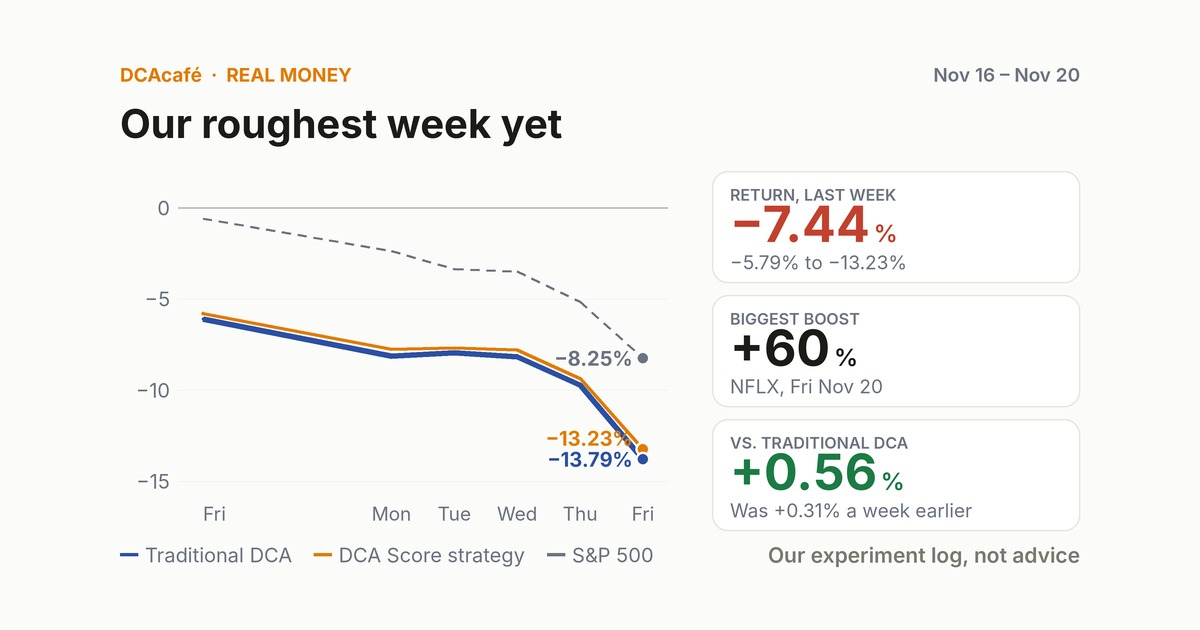
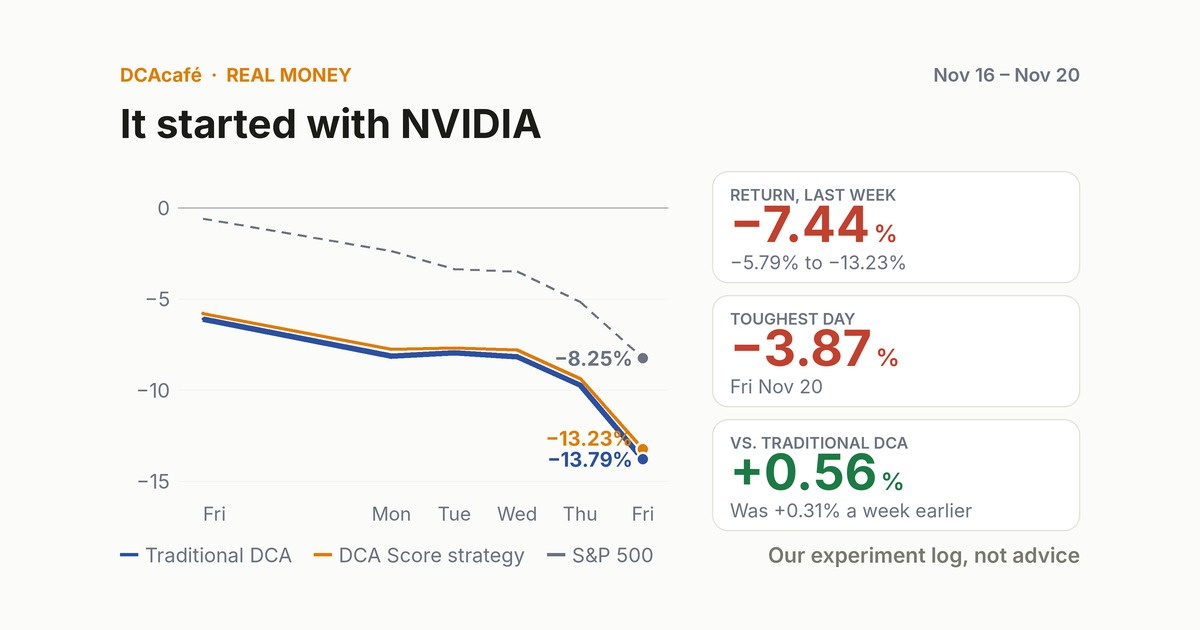
Week 2026-11-23: NVIDIA story version
Claude-Session: https://claude.ai/code/session_01TN5EnEAxzj8h9H6x6S1gNX

Changed region(s): [[0.0925, 0.1508, 0.4625, 0.2413], [0.5858, 0.4825, 0.74, 0.6333]]

diff --git a/week/2026-11-23/index.html b/week/2026-11-23/index.html
@@ -3,21 +3,21 @@
 <head>
 <meta charset="utf-8">
 <meta name="viewport" content="width=device-width,initial-scale=1">
-<title>Our roughest week yet | DCAcafé Real money</title>
-<meta name="description" content="Last week was our roughest yet: real-money DCA return slid from −5.79% to −13.23%, Friday alone −3.87%.  The DCA Score leaned in: every order was boosted, up to +60% on NFLX. One order day slipped. St">
+<title>It started with NVIDIA | DCAcafé Real money</title>
+<meta name="description" content="Last week began with NVIDIA, down 4.12% on Monday. By Friday an AI rout had wiped out Nasdaq's gains.  All three of our assets fell too, and at DCAcafé the DCA Score leaned in on every order.  Did lea">
 <link rel="canonical" href="https://dcacafe.com/week/2026-11-23/">
 <meta property="og:type" content="article">
 <meta property="og:site_name" content="DCAcafé">
-<meta property="og:title" content="Our roughest week yet">
-<meta property="og:description" content="Last week was our roughest yet: real-money DCA return slid from −5.79% to −13.23%, Friday alone −3.87%.  The DCA Score leaned in: every order was boosted, up to +60% on NFLX. One order day slipped. St">
+<meta property="og:title" content="It started with NVIDIA">
+<meta property="og:description" content="Last week began with NVIDIA, down 4.12% on Monday. By Friday an AI rout had wiped out Nasdaq's gains.  All three of our assets fell too, and at DCAcafé the DCA Score leaned in on every order.  Did lea">
 <meta property="og:url" content="https://dcacafe.com/week/2026-11-23/">
 <meta property="og:image" content="https://dcacafe.com/week/2026-11-23/card.jpg">
 <meta property="og:image:width" content="1200">
 <meta property="og:image:height" content="630">
 <meta name="twitter:card" content="summary_large_image">
 <meta name="twitter:site" content="@DCA_cafe">
-<meta name="twitter:title" content="Our roughest week yet">
-<meta name="twitter:description" content="Last week was our roughest yet: real-money DCA return slid from −5.79% to −13.23%, Friday alone −3.87%.  The DCA Score leaned in: every order was boosted, up to +60% on NFLX. One order day slipped. St">
+<meta name="twitter:title" content="It started with NVIDIA">
+<meta name="twitter:description" content="Last week began with NVIDIA, down 4.12% on Monday. By Friday an AI rout had wiped out Nasdaq's gains.  All three of our assets fell too, and at DCAcafé the DCA Score leaned in on every order.  Did lea">
 <meta name="twitter:image" content="https://dcacafe.com/week/2026-11-23/card.jpg">
 <style>
 :root{--ink:#1b1b17;--mid:#6b6b63;--rule:#e4e4dc;--bg:#fbfbf9;--a:#e07b00}
@@ -29,19 +29,22 @@ h1{font-size:28px;line-height:1.2;margin:8px 0 6px;letter-spacing:-.01em}
 img{width:100%;height:auto;border-radius:14px;border:1px solid var(--rule);display:block}
 .post{margin:22px 0;font-size:17px;white-space:pre-line}
 .btn{display:inline-block;background:var(--ink);color:#fff;text-decoration:none;padding:12px 20px;border-radius:999px;font-weight:600;font-size:15px}
+.lnk{color:var(--ink);font-weight:600;font-size:15px}
 .fine{margin-top:28px;color:var(--mid);font-size:13px;border-top:1px solid var(--rule);padding-top:14px}
 </style>
 </head>
 <body>
 <main>
 <div class="kick">DCAcafé &middot; Real money</div>
-<h1>Our roughest week yet</h1>
+<h1>It started with NVIDIA</h1>
 <p class="wk">Last week: Nov 16 to Nov 20</p>
-<img src="card.jpg" width="1200" height="630" alt="Our roughest week yet">
-<p class="post">Last week was our roughest yet: real-money DCA return slid from −5.79% to −13.23%, Friday alone −3.87%.
+<img src="card.jpg" width="1200" height="630" alt="It started with NVIDIA">
+<p class="post">Last week began with NVIDIA, down 4.12% on Monday. By Friday an AI rout had wiped out Nasdaq's gains.
 
-The DCA Score leaned in: every order was boosted, up to +60% on NFLX. One order day slipped. Still 0.56% ahead of traditional DCA.</p>
-<p><a class="btn" href="https://dcacafe.com/real-money.html">See the live experiment</a></p>
+All three of our assets fell too, and at DCAcafé the DCA Score leaned in on every order.
+
+Did leaning in change the ride?</p>
+<p><a class="btn" href="https://dcacafe.com/real-money.html">See the live experiment</a> &nbsp; <a class="lnk" href="https://dcacafe.com/real-money.html#weekly-log">All weeks</a></p>
 <p class="fine">This is our own experiment log, not advice. Numbers are cumulative returns on the money put in, taken from a real brokerage account, compared with a simulated traditional DCA and an S&amp;P 500 reference (price only, before fees and dividends). Past results say nothing about what comes next.</p>
 </main>
 </body>
